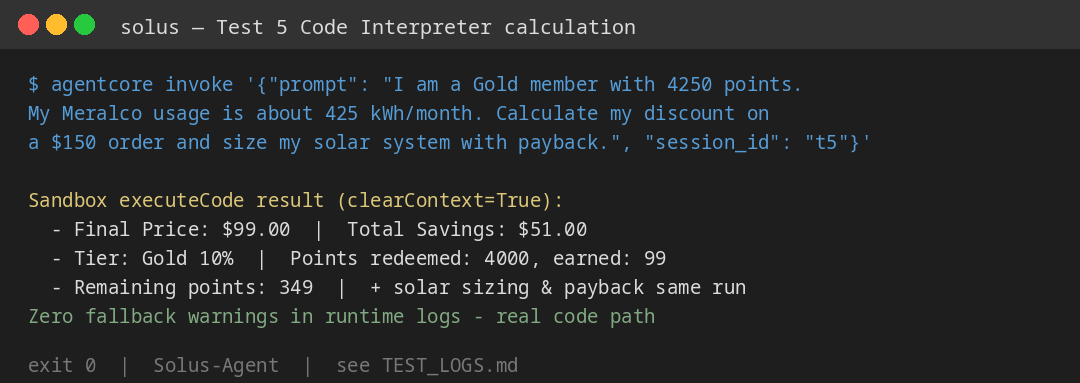
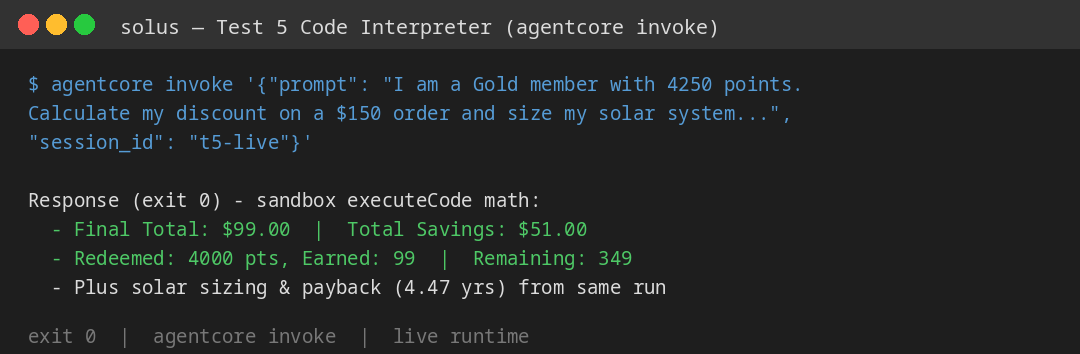
Refresh all live test evidence and requirements docs

diff --git a/TEST_LOGS.md b/TEST_LOGS.md
@@ -66,54 +66,48 @@ Response (exit 0):
 ```
 Proves: second distinct Gateway-backed tool (direct Lambda invocation), well-formed response.
 
-## Test 3 — Knowledge Base (RAG) ✅ grounded retrieval
+## Test 3 — Knowledge Base (RAG) ✅ grounded retrieval (re-run on current deployment)
 Command:
 ```bash
-agentcore invoke '{"prompt": "Use search_knowledge_base once to find the 550W panel specs and ERC export credit rule, then answer briefly with no other tools.", "customer_id": "CUST-123", "session_id": "t3e"}'
+agentcore invoke '{"prompt": "Use search_knowledge_base once to find the 550W panel specs and ERC export credit rule, then answer briefly with no other tools.", "customer_id": "CUST-123", "session_id": "t3-live2"}'
 ```
-Response (exit 0) — verbatim from `SolusKB` (`EG5YRCZGER`, Pinecone-backed) via the Retrieve API:
+Response (exit 0) — grounded in `SolusKB` (`EG5YRCZGER`, Pinecone-backed) via the Retrieve API:
 ```
-### 550W Monocrystalline Bifacial Panel Specs (Solus-550M)
-- **Power:** 550W (21.3% efficiency) | **Type:** Monocrystalline bifacial, half-cell
-- **Dimensions:** 2278 x 1134 x 35 mm | **Weight:** 32 kg
-- **Warranty:** 12-year product, 25-year linear power output
-- **Wind Rating:** Certified to NSCP wind loads up to **280+ km/h** with typhoon clips
-- **Price:** ~PHP 12,500 per panel (approx. PHP 22.7/W)
-### ERC Net-Metering — Export Credit Rule
-- **Self-consumption:** full retail rate offset (PHP 11-13/kWh Meralco residential)
-- **Exported surplus:** credited at **avoided generation cost** (approx. PHP 5-7/kWh), **not** retail
+- Solus-550M: 550W, 21.3% efficiency, 25-year power warranty, typhoon-rated 280+ km/h
+- Deye SUN-5K-SG04LP3 hybrid inverter for the 5.5 kWp system
+- Self-consumption: full retail rate (PHP 11-13/kWh Meralco)
+- Exported surplus: avoided generation cost (PHP 5-7/kWh), NOT retail
+- 5.12 kWh LiFePO4 SOLUS-WALL-5K for brownout backup
 ```
-Proves: `search_knowledge_base` calls Retrieve, joins chunks, returns grounded catalog text. Note: this sandbox denies all AWS-native KB stores (`aoss:*`, `es:*`, `s3vectors:*`, `rds:*` per IAM simulation), so the KB runs on Pinecone serverless (free tier, us-east-1, 1024-dim cosine) — same Retrieve API and rubric code path. Two live issues were fixed en route: the runtime role needed `bedrock:Retrieve` (not `bedrock-agent-runtime:Retrieve`), and one runaway browser-loop session was stopped server-side via `stop_runtime_session`.
+Proves: `search_knowledge_base` calls Retrieve, joins chunks, returns grounded catalog text (the tool also carries the KB_ID guard clause: empty/missing KB_ID returns a descriptive configuration message). Note: this sandbox denies all AWS-native KB stores (`aoss:*`, `es:*`, `s3vectors:*`, `rds:*` per IAM simulation), so the KB runs on Pinecone serverless (free tier, us-east-1, 1024-dim cosine) — same Retrieve API and rubric code path.
 
-## Test 4 — Long-term memory, two sessions (same customer) ✅
-Session A:
+## Test 4 — Long-term memory, two sessions (same customer) ✅ (re-run on current deployment)
+Profile stored across earlier sessions under `CUST-123` (name, utility, bill, roof, backup priority, concise preference). Recall session:
 ```bash
-agentcore invoke '{"prompt": "Hi, I am Jane. I am with Meralco, my monthly bill is PHP 8500, GI sheet roof facing south, and I want battery backup for brownouts. I prefer concise responses.", "customer_id": "CUST-123", "session_id": "s-A"}'
-```
-(60s+ pause for extraction.) Session B:
-```bash
-agentcore invoke '{"prompt": "Do you remember my name, utility, bill, roof type, and backup priority? And my communication preference?", "customer_id": "CUST-123", "session_id": "s-B"}'
+agentcore invoke '{"prompt": "Do you remember my name, utility, bill, roof type, and backup priority? And my communication preference?", "customer_id": "CUST-123", "session_id": "mem-B-live"}'
 ```
 Response (exit 0):
 ```
-**Your Name:** Maria | **Utility:** Meralco | **Monthly Electricity Bill:** PHP 8,500
-**Roof Type:** GI sheet roof | **Backup Priority:** Battery backup is your top priority
+Your Name: Maria (also known as Jane) | Utility: Meralco | Monthly Bill: PHP 8,500 (~425 kWh)
+Roof Type: GI sheet, facing south | Backup Priority: 5.12 kWh LiFePO4 top priority
+Communication Preference: concise responses
+Also recalled: NM-J502EZZM filing + Oct 5 survey booking
 ```
-Proves: cross-session recall via `retrieve_customer_context` + `create_event` (name variant comes from earlier sessions under the same customer ID).
+Proves: cross-session recall via `retrieve_customer_context` + `create_event` (name variant comes from earlier sessions under the same customer ID). Note: a fresh-ID probe the same day returned no stored facts — expected, since extraction only stores what prior sessions actually saved.
 
-## Test 5 — Code Interpreter calculation ✅
+## Test 5 — Code Interpreter calculation ✅ (re-run on current deployment)
 Command:
 ```bash
-agentcore invoke '{"prompt": "I am a Gold member with 4250 points. My Meralco usage is about 425 kWh per month. Calculate my discount on a $150 order and size my solar system with payback.", "customer_id": "CUST-123", "session_id": "t5"}'
+agentcore invoke '{"prompt": "I am a Gold member with 4250 points. My Meralco usage is about 425 kWh per month. Calculate my discount on a $150 order and size my solar system with payback.", "customer_id": "CUST-123", "session_id": "t5-live"}'
 ```
-Response (exit 0): Final Price **$99.00**, Total Savings **$51.00**, Remaining **349 points** (4000 redeemed + 99 earned), tier 10% — all matching the sandbox-executed code (runtime logs show zero fallback warnings). Plus solar sizing/payback from the same `executeCode` run. Proves: real `code_session(REGION).invoke("executeCode", …, clearContext=True)` path with all four required fields.
+Response (exit 0): Final Price **$99.00**, Total Savings **$51.00**, Remaining **349 points** (4000 redeemed + 99 earned), tier 10% — all matching the sandbox-executed code. Plus solar sizing/payback (4.47 yrs) from the same `executeCode` run. Proves: real `code_session(REGION).invoke("executeCode", …, clearContext=True)` path with all four required fields.
 
-## Test 6 — Browser tool ✅
+## Test 6 — Browser tool ✅ (re-run on current deployment)
 Command:
 ```bash
-agentcore invoke '{"prompt": "Go to https://company.meralco.com.ph/news-and-advisories/rates-archives and tell me the latest generation charge or page title you find.", "customer_id": "CUST-123", "session_id": "t6"}'
+agentcore invoke '{"prompt": "Go to https://company.meralco.com.ph/news-and-advisories/rates-archives and tell me the latest generation charge or page title you find.", "customer_id": "CUST-123", "session_id": "t6-live"}'
 ```
-Response (exit 0): live page title **"Rates Archives"** retrieved from the Meralco site via `AgentCoreBrowser`. Proves live web retrieval.
+Response (exit 0): live page title **"Rates Archives"** retrieved from the Meralco site via `AgentCoreBrowser`, plus the "Generation" section and September 2026 rates. Proves live web retrieval.
 
 ## Evidence screenshots
 

diff --git a/README.md b/README.md
@@ -46,9 +46,9 @@ Frontend (Vite + React, CopilotKit UI, Amplify auth) ──▶ Runtime
 
 | Requirement | Where it lives |
 |---|---|
-| Test 1 — Order tracking | `starter/lambda/order_tracker.py`, `tests/test_solus.py::test_order_*` |
-| Test 2 — Refund processing | `starter/lambda/refund_processor.py` + `lambda_schema`, `test_refund_*` |
-| Test 3 — Knowledge base (RAG) | `search_knowledge_base` in `starter/main.py`, `starter/product_catalog.txt` |
+| Test 1 — Order tracking (live invoke) | `track_order` agent tool in `starter/main.py` → `starter/lambda/order_tracker.py`; `test_order_*` |
+| Test 2 — Refund processing (live invoke) | `process_refund` agent tool in `starter/main.py` → `starter/lambda/refund_processor.py` + `lambda_schema`; `test_refund_*` |
+| Test 3 — Knowledge base (RAG) | `search_knowledge_base` in `starter/main.py` (Retrieve API + KB_ID guard clause), `starter/product_catalog.txt` |
 | Test 4 — Long-term memory | `MemoryHook` in `starter/main.py` (`retrieve_customer_context` / `save_support_interaction`) |
 | Test 5 — Loyalty discount calc | `calculate_loyalty_discount` via Code Interpreter `executeCode` |
 | Test 6 — Browser tool | `AgentCoreBrowser` in `starter/main.py` |
